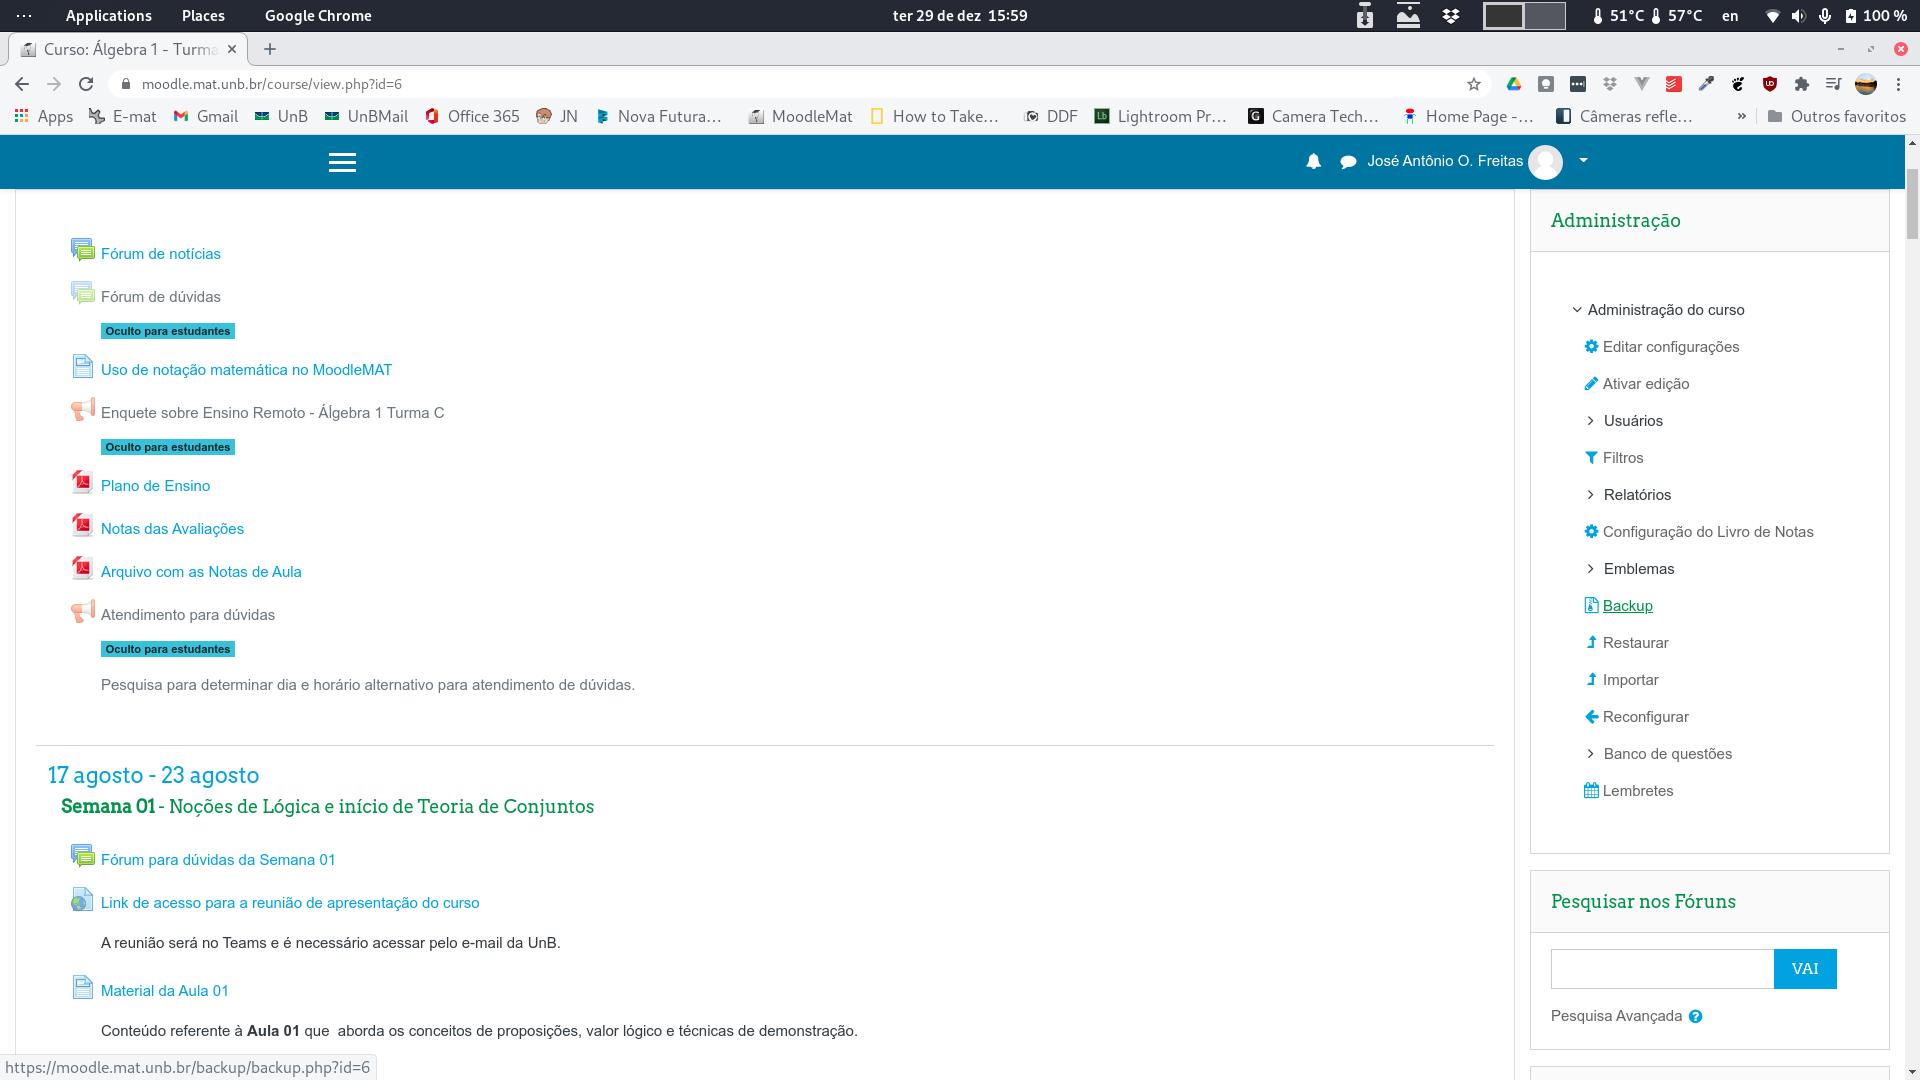
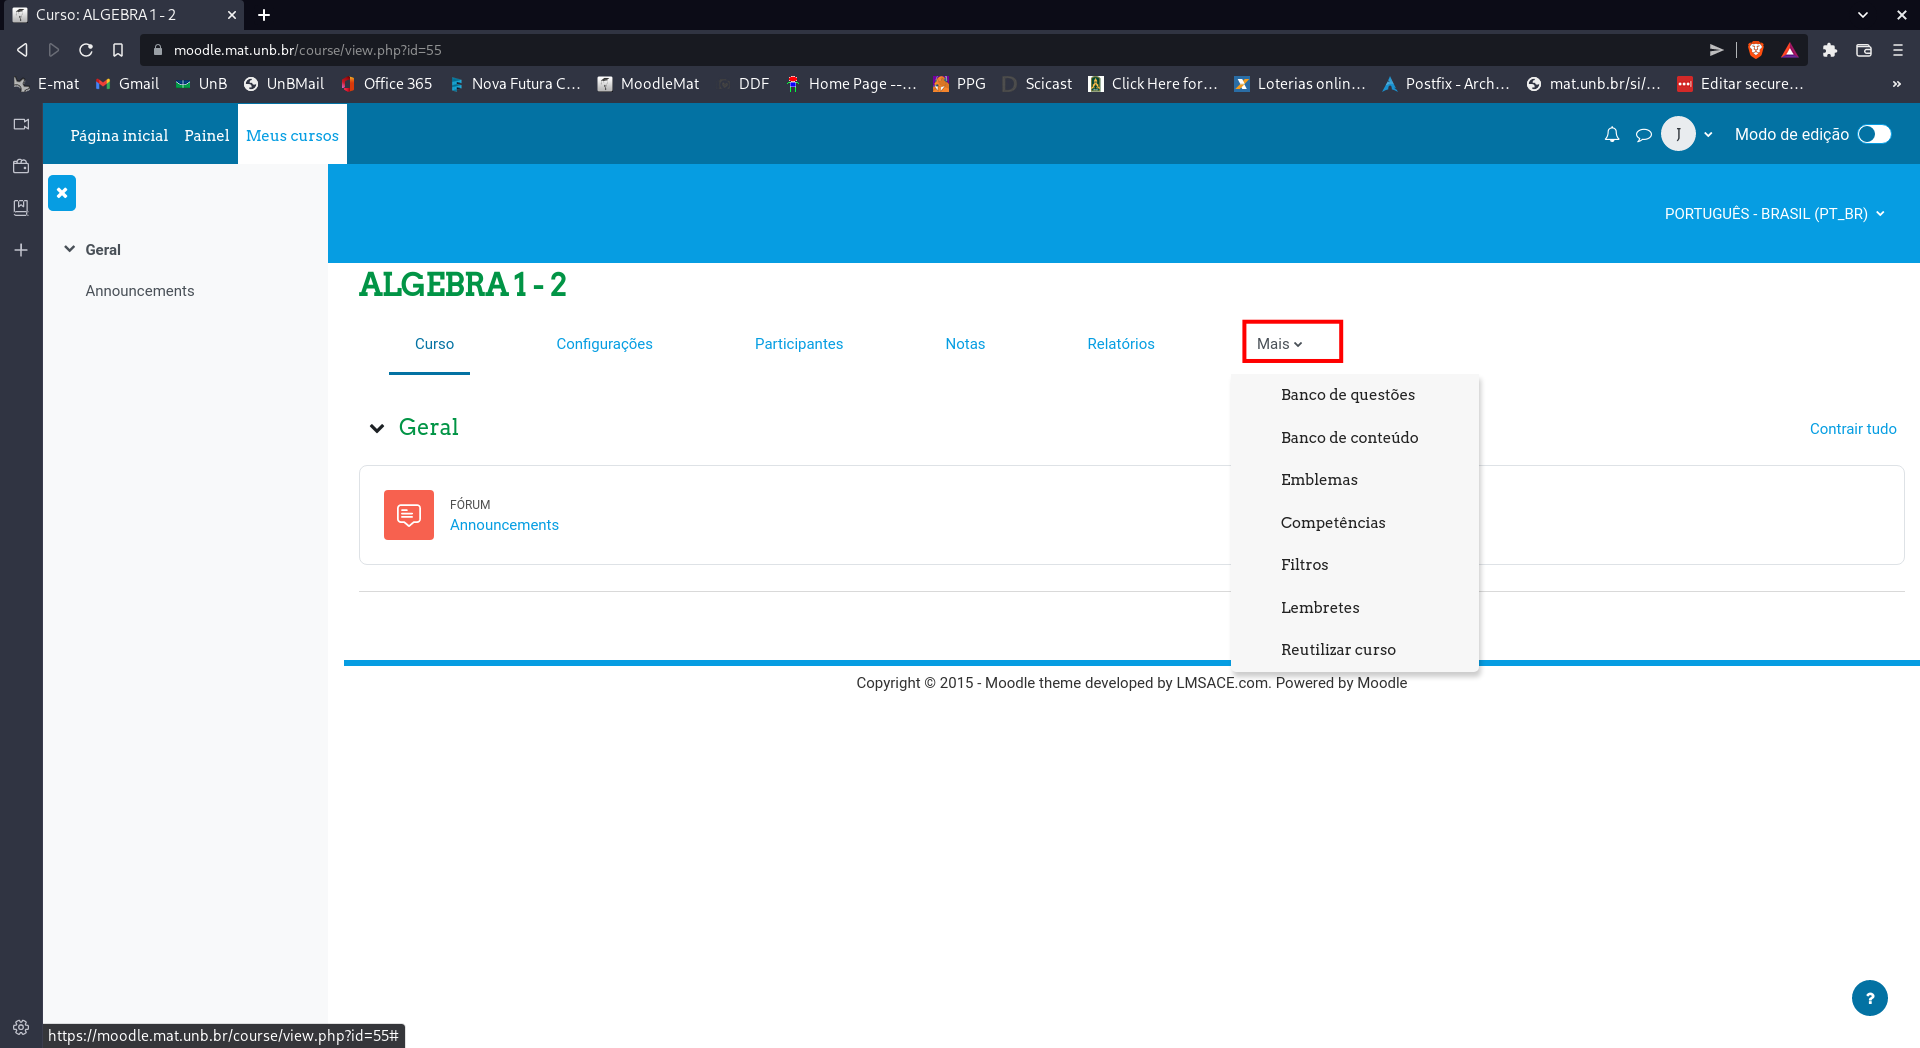
Ajustes no tutorial de backup e restauração do MoodleMAT.

diff --git a/tutorial_backup-restauracao.tex b/tutorial_backup-restauracao.tex
@@ -31,7 +31,7 @@
 
 \vspace{.7cm}
 
-Para efetuar o backup de uma disciplina no MoodleMAT os passos s\~ao os seguintes: acesse o MoodleMAT do ano e semestre que deseja realizar o backup atrav\'es do endere\c{c}o \textit{https://moodle.mat.unb.br/anosemestre}, por exemplo, para fazer o backup da disciplina do 2021/1 o endere\c{c}o seria \href{https://moodle.mat.unb.br/20211}{https://moodle.mat.unb.br/20211} (o endere\c{c}o \href{https://moodle.mat.unb.br}{https://moodle.mat.unb.br}, refere-se sempre ao semestre corrente).
+Para efetuar o backup de uma disciplina no MoodleMAT os passos s\~ao os seguintes: acesse o MoodleMAT do ano e semestre que deseja realizar o backup atrav\'es do endere\c{c}o \textit{https://moodle.mat.unb.br/anosemestre}, por exemplo, para fazer o backup da disciplina do 2021/2 o endere\c{c}o seria \href{https://moodle.mat.unb.br/20212}{https://moodle.mat.unb.br/20212} (o endere\c{c}o \href{https://moodle.mat.unb.br}{https://moodle.mat.unb.br}, refere-se sempre ao semestre corrente).
 
 \begin{enumerate}[\bf 1)]
 	\item Ap\'os entrar na sua disciplina, clique no menu ``\textbf{Administra\c{c}\~ao}'' que aparece na lateral direita. \textbf{Caso o menu n\~ao esteja aparecendo clique no {\'\i}cone de engrenagem} que dever\'a estar no \textbf{lado direito} da tela. Procure e clique na op\c{c}\~ao ``\textbf{Backup}''.
@@ -118,13 +118,38 @@ Para efetuar o backup de uma disciplina no MoodleMAT os passos s\~ao os seguinte
 Para restaurar uma disciplina antiga, \textbf{cujo backup voc\^e j\'a realizou}, realize os seguintes passos:
 
 \begin{enumerate}[\bf 1)]
-	\item Ap\'os entrar na sua disciplina, clique no {\'\i}cone de \textbf{engrenagem}, ou procure o menu ``\textbf{Administra\c{c}\~ao}'', ambos na \textbf{lateral direita} da tela. Clique na opção ``\textbf{Restaurar}''
+	\item Ap\'os entrar na sua disciplina, no menu que aparece logo abaixo do nome da sua disciplina, clique na opção ``\textbf{Mais}''.
 	\begin{figure}[H]
     	\centering
     	\hspace*{-2.5cm}\includegraphics[width = 1.4\columnwidth]{tela_restauracao_1.jpg}
   	\end{figure}
 
   	\newpage
+
+	\item No menu que abrirá clique na opção ``\textbf{Reutilizar curso}''.
+	\begin{figure}[H]
+    	\centering
+    	\hspace*{-2.5cm}\includegraphics[width = 1.4\columnwidth]{tela_restauracao_reutilizar_curso.jpg}
+  	\end{figure}
+
+  	\newpage
+
+    \item Na tela que será apresentada, no lado esquerdo procure um menu que conterá o texto ``\textbf{Importar}'' e clique nessa opção.
+	\begin{figure}[H]
+    	\centering
+    	\hspace*{-2.5cm}\includegraphics[width = 1.4\columnwidth]{tela_restauracao_menu_restauracao.jpg}
+  	\end{figure}
+
+  	\newpage
+
+    \item No menu que se abrirá procure a opção ``\textbf{Restaurar}'' e clique nessa opção.
+	\begin{figure}[H]
+    	\centering
+    	\hspace*{-2.5cm}\includegraphics[width = 1.4\columnwidth]{tela_restauracao_menu_restaurar.jpg}
+  	\end{figure}
+
+  	\newpage
+
 
 	\item Na pr\'oxima tela, utilize o bot\~ao ``ESCOLHA UM ARQUIVO'' para enviar o arquivo com o backup de seu curso. O processo de upload pode demorar devido ao tamanho do arquivo, velocidade de sua conex\~ao e fatores que possam estar afetando a rede da UnB.
 	\begin{figure}[H]
